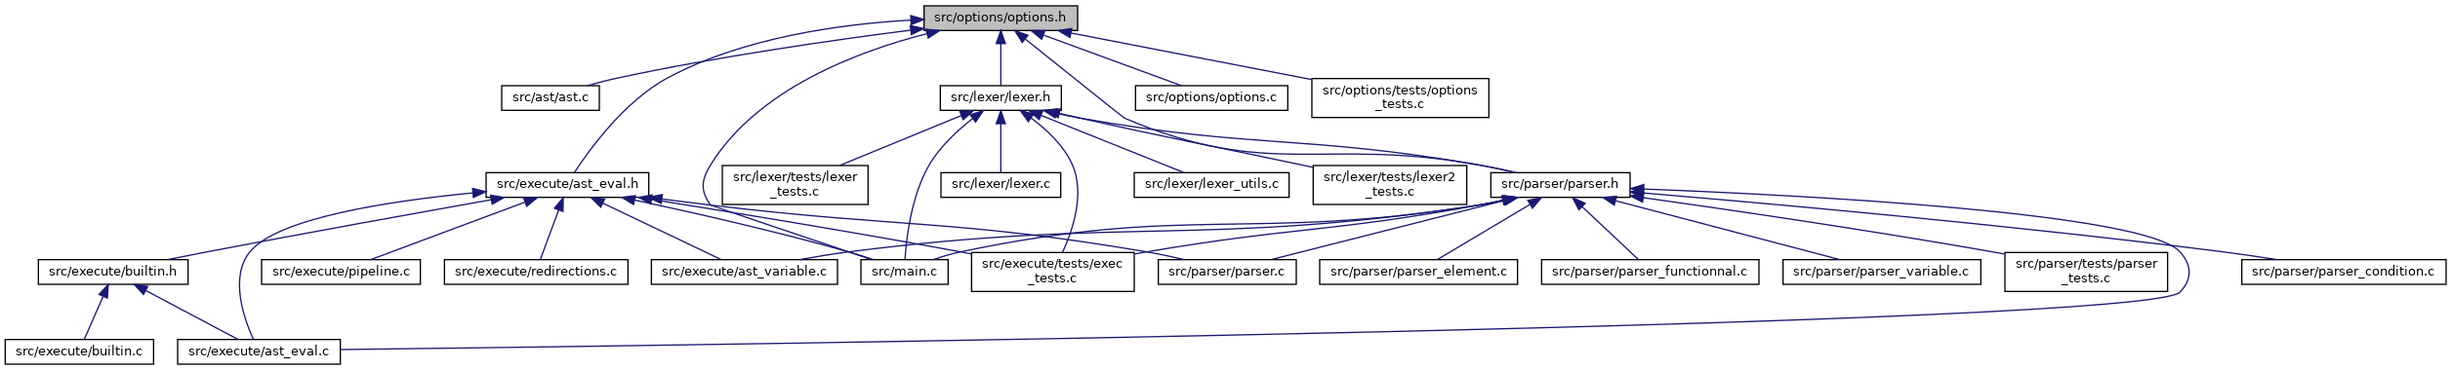
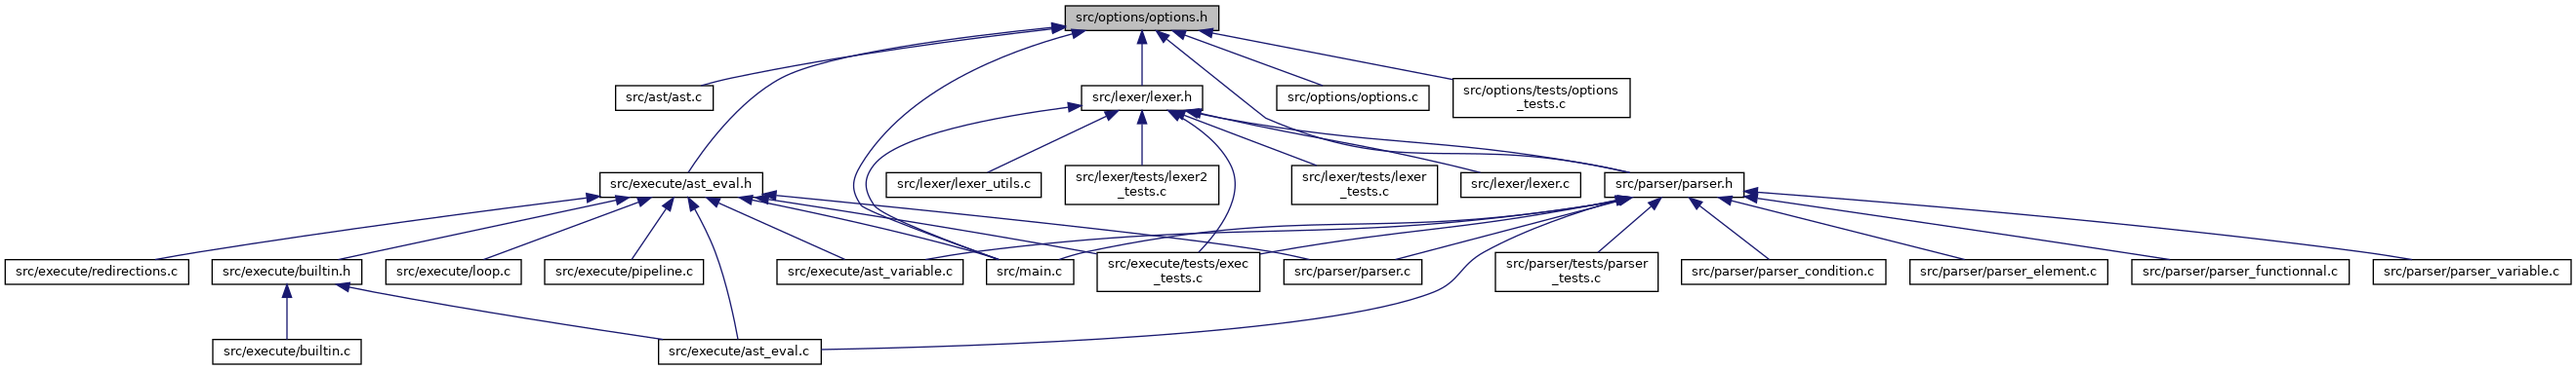
deploy: 840abefea9eaafb9baabd035a51db736eed31176

diff --git a/ast_8h.html b/ast_8h.html
@@ -96,32 +96,33 @@ This graph shows which files directly or indirectly include this file:</div>
 <div class="dyncontent">
 <div class="center"><img src="ast_8h__dep__incl.png" border="0" usemap="#asrc_2ast_2ast_8hdep" alt=""/></div>
 <map name="asrc_2ast_2ast_8hdep" id="asrc_2ast_2ast_8hdep">
-<area shape="rect" title="Represent a node of the AST." alt="" coords="656,5,757,32"/>
-<area shape="rect" href="ast_8c.html" title="Represent a node of the AST." alt="" coords="657,162,757,189"/>
-<area shape="rect" href="ast__eval_8h.html" title="Evaluate the AST." alt="" coords="466,162,633,189"/>
-<area shape="rect" href="pipeline_8c.html" title="Pipeline functions." alt="" coords="52,251,215,278"/>
-<area shape="rect" href="redirections_8c.html" title="Redirections functions." alt="" coords="239,251,427,278"/>
-<area shape="rect" href="main_8c.html" title="Main file of the project (entry point)" alt="" coords="699,341,789,367"/>
-<area shape="rect" href="options_8c.html" title="Options functions." alt="" coords="781,162,937,189"/>
-<area shape="rect" href="options_8h.html" title="Header for options functions." alt="" coords="871,80,1028,107"/>
-<area shape="rect" href="parser_8h.html" title="Header for the parser." alt="" coords="1721,251,1863,278"/>
-<area shape="rect" href="parser__tests_8c.html" title="Tests the parser functions." alt="" coords="2319,333,2486,375"/>
-<area shape="rect" href="ast__eval_8c.html" title="Evaluate the AST." alt="" coords="509,341,675,367"/>
-<area shape="rect" href="ast__variable_8c.html" title="Handle variables." alt="" coords="813,341,1003,367"/>
-<area shape="rect" href="builtin_8h.html" title="Header of the builtin functions." alt="" coords="451,251,605,278"/>
-<area shape="rect" href="exec__tests_8c.html" title="Tests the exec function." alt="" coords="1027,333,1194,375"/>
-<area shape="rect" href="parser_8c.html" title="Parse the input and build the AST." alt="" coords="1219,341,1360,367"/>
-<area shape="rect" href="builtin_8c.html" title="Builtin functions." alt="" coords="332,341,484,367"/>
-<area shape="rect" href="lexer_8h.html" title="Header of the lexer." alt="" coords="1034,162,1158,189"/>
-<area shape="rect" href="options__tests_8c.html" title="Tests the options functions." alt="" coords="1233,155,1415,196"/>
-<area shape="rect" href="lexer_8c.html" title="Lex the input." alt="" coords="1035,251,1157,278"/>
-<area shape="rect" href="lexer__utils_8c.html" title=" " alt="" coords="1182,251,1341,278"/>
-<area shape="rect" href="lexer2__tests_8c.html" title="Tests the lexer functions." alt="" coords="1365,244,1523,285"/>
-<area shape="rect" href="lexer__tests_8c.html" title="Tests the lexer functions." alt="" coords="1547,244,1696,285"/>
-<area shape="rect" href="parser__condition_8c.html" title="Parse the condition rule." alt="" coords="2086,341,2295,367"/>
-<area shape="rect" href="parser__element_8c.html" title="Parse the element rule." alt="" coords="1384,341,1587,367"/>
-<area shape="rect" href="parser__functionnal_8c.html" title="Parse the functionnal." alt="" coords="1611,341,1834,367"/>
-<area shape="rect" href="parser__variable_8c.html" title="Parse the variable." alt="" coords="1859,341,2061,367"/>
+<area shape="rect" title="Represent a node of the AST." alt="" coords="879,5,980,32"/>
+<area shape="rect" href="ast_8c.html" title="Represent a node of the AST." alt="" coords="627,162,727,189"/>
+<area shape="rect" href="ast__eval_8h.html" title="Evaluate the AST." alt="" coords="751,162,918,189"/>
+<area shape="rect" href="loop_8c.html" title="Loop functions." alt="" coords="5,251,144,278"/>
+<area shape="rect" href="pipeline_8c.html" title="Pipeline functions." alt="" coords="168,251,331,278"/>
+<area shape="rect" href="redirections_8c.html" title="Redirections functions." alt="" coords="355,251,543,278"/>
+<area shape="rect" href="main_8c.html" title="Main file of the project (entry point)" alt="" coords="2145,341,2234,367"/>
+<area shape="rect" href="options_8c.html" title="Options functions." alt="" coords="1843,162,1999,189"/>
+<area shape="rect" href="options_8h.html" title="Header for options functions." alt="" coords="941,80,1099,107"/>
+<area shape="rect" href="parser_8h.html" title="Header for the parser." alt="" coords="999,251,1142,278"/>
+<area shape="rect" href="parser__tests_8c.html" title="Tests the parser functions." alt="" coords="1954,333,2121,375"/>
+<area shape="rect" href="ast__eval_8c.html" title="Evaluate the AST." alt="" coords="255,341,422,367"/>
+<area shape="rect" href="ast__variable_8c.html" title="Handle variables." alt="" coords="613,341,803,367"/>
+<area shape="rect" href="builtin_8h.html" title="Header of the builtin functions." alt="" coords="567,251,721,278"/>
+<area shape="rect" href="exec__tests_8c.html" title="Tests the exec function." alt="" coords="827,333,994,375"/>
+<area shape="rect" href="parser_8c.html" title="Parse the input and build the AST." alt="" coords="447,341,588,367"/>
+<area shape="rect" href="builtin_8c.html" title="Builtin functions." alt="" coords="79,341,231,367"/>
+<area shape="rect" href="lexer_8h.html" title="Header of the lexer." alt="" coords="1329,162,1453,189"/>
+<area shape="rect" href="options__tests_8c.html" title="Tests the options functions." alt="" coords="993,155,1175,196"/>
+<area shape="rect" href="lexer_8c.html" title="Lex the input." alt="" coords="1217,251,1340,278"/>
+<area shape="rect" href="lexer__utils_8c.html" title=" " alt="" coords="1365,251,1523,278"/>
+<area shape="rect" href="lexer2__tests_8c.html" title="Tests the lexer functions." alt="" coords="1548,244,1705,285"/>
+<area shape="rect" href="lexer__tests_8c.html" title="Tests the lexer functions." alt="" coords="1729,244,1879,285"/>
+<area shape="rect" href="parser__condition_8c.html" title="Parse the condition rule." alt="" coords="1246,341,1455,367"/>
+<area shape="rect" href="parser__element_8c.html" title="Parse the element rule." alt="" coords="1480,341,1683,367"/>
+<area shape="rect" href="parser__functionnal_8c.html" title="Parse the functionnal." alt="" coords="1707,341,1930,367"/>
+<area shape="rect" href="parser__variable_8c.html" title="Parse the variable." alt="" coords="1019,341,1221,367"/>
 </map>
 </div>
 </div>

diff --git a/options_8h.html b/options_8h.html
@@ -96,31 +96,32 @@ This graph shows which files directly or indirectly include this file:</div>
 <div class="dyncontent">
 <div class="center"><img src="options_8h__dep__incl.png" border="0" usemap="#asrc_2options_2options_8hdep" alt=""/></div>
 <map name="asrc_2options_2options_8hdep" id="asrc_2options_2options_8hdep">
-<area shape="rect" title="Header for options functions." alt="" coords="947,5,1104,32"/>
-<area shape="rect" href="ast_8c.html" title="Represent a node of the AST." alt="" coords="514,87,614,114"/>
-<area shape="rect" href="ast__eval_8h.html" title="Evaluate the AST." alt="" coords="498,177,665,203"/>
-<area shape="rect" href="main_8c.html" title="Main file of the project (entry point)" alt="" coords="882,266,971,293"/>
-<area shape="rect" href="lexer_8h.html" title="Header of the lexer." alt="" coords="963,87,1087,114"/>
-<area shape="rect" href="parser_8h.html" title="Header for the parser." alt="" coords="1527,177,1670,203"/>
-<area shape="rect" href="options_8c.html" title="Options functions." alt="" coords="1163,87,1319,114"/>
-<area shape="rect" href="options__tests_8c.html" title="Tests the options functions." alt="" coords="1344,80,1525,121"/>
-<area shape="rect" href="ast__eval_8c.html" title="Evaluate the AST." alt="" coords="182,348,349,375"/>
-<area shape="rect" href="ast__variable_8c.html" title="Handle variables." alt="" coords="667,266,858,293"/>
-<area shape="rect" href="builtin_8h.html" title="Header of the builtin functions." alt="" coords="39,266,193,293"/>
-<area shape="rect" href="pipeline_8c.html" title="Pipeline functions." alt="" coords="268,266,431,293"/>
-<area shape="rect" href="redirections_8c.html" title="Redirections functions." alt="" coords="455,266,643,293"/>
-<area shape="rect" href="exec__tests_8c.html" title="Tests the exec function." alt="" coords="995,259,1162,300"/>
-<area shape="rect" href="parser_8c.html" title="Parse the input and build the AST." alt="" coords="1187,266,1328,293"/>
-<area shape="rect" href="builtin_8c.html" title="Builtin functions." alt="" coords="5,348,157,375"/>
-<area shape="rect" href="lexer_8c.html" title="Lex the input." alt="" coords="964,177,1087,203"/>
-<area shape="rect" href="lexer__utils_8c.html" title=" " alt="" coords="1162,177,1321,203"/>
-<area shape="rect" href="lexer2__tests_8c.html" title="Tests the lexer functions." alt="" coords="1345,169,1503,211"/>
-<area shape="rect" href="lexer__tests_8c.html" title="Tests the lexer functions." alt="" coords="740,169,889,211"/>
-<area shape="rect" href="parser__condition_8c.html" title="Parse the condition rule." alt="" coords="2297,266,2506,293"/>
-<area shape="rect" href="parser__element_8c.html" title="Parse the element rule." alt="" coords="1352,266,1555,293"/>
-<area shape="rect" href="parser__functionnal_8c.html" title="Parse the functionnal." alt="" coords="1579,266,1802,293"/>
-<area shape="rect" href="parser__variable_8c.html" title="Parse the variable." alt="" coords="1827,266,2029,293"/>
-<area shape="rect" href="parser__tests_8c.html" title="Tests the parser functions." alt="" coords="2054,259,2221,300"/>
+<area shape="rect" title="Header for options functions." alt="" coords="1091,5,1249,32"/>
+<area shape="rect" href="ast_8c.html" title="Represent a node of the AST." alt="" coords="631,87,731,114"/>
+<area shape="rect" href="ast__eval_8h.html" title="Evaluate the AST." alt="" coords="615,177,781,203"/>
+<area shape="rect" href="main_8c.html" title="Main file of the project (entry point)" alt="" coords="1011,266,1100,293"/>
+<area shape="rect" href="lexer_8h.html" title="Header of the lexer." alt="" coords="1108,87,1232,114"/>
+<area shape="rect" href="parser_8h.html" title="Header for the parser." alt="" coords="1644,177,1787,203"/>
+<area shape="rect" href="options_8c.html" title="Options functions." alt="" coords="1308,87,1464,114"/>
+<area shape="rect" href="options__tests_8c.html" title="Tests the options functions." alt="" coords="1489,80,1670,121"/>
+<area shape="rect" href="ast__eval_8c.html" title="Evaluate the AST." alt="" coords="675,348,841,375"/>
+<area shape="rect" href="ast__variable_8c.html" title="Handle variables." alt="" coords="796,266,987,293"/>
+<area shape="rect" href="builtin_8h.html" title="Header of the builtin functions." alt="" coords="217,266,371,293"/>
+<area shape="rect" href="loop_8c.html" title="Loop functions." alt="" coords="395,266,534,293"/>
+<area shape="rect" href="pipeline_8c.html" title="Pipeline functions." alt="" coords="558,266,721,293"/>
+<area shape="rect" href="redirections_8c.html" title="Redirections functions." alt="" coords="5,266,193,293"/>
+<area shape="rect" href="exec__tests_8c.html" title="Tests the exec function." alt="" coords="1124,259,1291,300"/>
+<area shape="rect" href="parser_8c.html" title="Parse the input and build the AST." alt="" coords="1315,266,1457,293"/>
+<area shape="rect" href="builtin_8c.html" title="Builtin functions." alt="" coords="218,348,370,375"/>
+<area shape="rect" href="lexer_8c.html" title="Lex the input." alt="" coords="1497,177,1619,203"/>
+<area shape="rect" href="lexer__utils_8c.html" title=" " alt="" coords="908,177,1067,203"/>
+<area shape="rect" href="lexer2__tests_8c.html" title="Tests the lexer functions." alt="" coords="1091,169,1249,211"/>
+<area shape="rect" href="lexer__tests_8c.html" title="Tests the lexer functions." alt="" coords="1323,169,1473,211"/>
+<area shape="rect" href="parser__condition_8c.html" title="Parse the condition rule." alt="" coords="1723,266,1932,293"/>
+<area shape="rect" href="parser__element_8c.html" title="Parse the element rule." alt="" coords="1957,266,2159,293"/>
+<area shape="rect" href="parser__functionnal_8c.html" title="Parse the functionnal." alt="" coords="2184,266,2407,293"/>
+<area shape="rect" href="parser__variable_8c.html" title="Parse the variable." alt="" coords="2431,266,2634,293"/>
+<area shape="rect" href="parser__tests_8c.html" title="Tests the parser functions." alt="" coords="1532,259,1699,300"/>
 </map>
 </div>
 </div>

diff --git a/loop_8c.html b/loop_8c.html
@@ -75,22 +75,28 @@ $(function() {
 
 <p>Loop functions.  
 <a href="#details">More...</a></p>
-<div class="textblock"><code>#include &quot;#include&quot;</code><br />
+<div class="textblock"><code>#include &quot;<a class="el" href="ast_8h_source.html">ast/ast.h</a>&quot;</code><br />
+<code>#include &quot;<a class="el" href="ast__eval_8h_source.html">ast_eval.h</a>&quot;</code><br />
 </div><div class="textblock"><div class="dynheader">
 Include dependency graph for loop.c:</div>
 <div class="dyncontent">
 <div class="center"><img src="loop_8c__incl.png" border="0" usemap="#asrc_2execute_2loop_8c" alt=""/></div>
 <map name="asrc_2execute_2loop_8c" id="asrc_2execute_2loop_8c">
 <area shape="rect" title="Loop functions." alt="" coords="5,5,144,32"/>
-<area shape="rect" title=" " alt="" coords="35,80,115,107"/>
+<area shape="rect" href="ast_8h.html" title="Represent a node of the AST." alt="" coords="50,229,129,256"/>
+<area shape="rect" href="ast__eval_8h.html" title="Evaluate the AST." alt="" coords="107,80,197,107"/>
+<area shape="rect" title=" " alt="" coords="232,304,315,331"/>
+<area shape="rect" title=" " alt="" coords="141,304,208,331"/>
+<area shape="rect" title=" " alt="" coords="46,304,117,331"/>
+<area shape="rect" href="options_8h.html" title="Header for options functions." alt="" coords="122,155,257,181"/>
 </map>
 </div>
 </div><table class="memberdecls">
 <tr class="heading"><td colspan="2"><h2 class="groupheader"><a name="func-members"></a>
 Functions</h2></td></tr>
-<tr class="memitem:a2120ffba7df3093483141c543038fb11"><td class="memItemLeft" align="right" valign="top">ast ast h ast_eval h int&#160;</td><td class="memItemRight" valign="bottom"><a class="el" href="loop_8c.html#a2120ffba7df3093483141c543038fb11">while_loop</a> (struct <a class="el" href="structast__node.html">ast_node</a> *node, bool logger_enabled)</td></tr>
-<tr class="memdesc:a2120ffba7df3093483141c543038fb11"><td class="mdescLeft">&#160;</td><td class="mdescRight">Evaluate the while loop.  <a href="loop_8c.html#a2120ffba7df3093483141c543038fb11">More...</a><br /></td></tr>
-<tr class="separator:a2120ffba7df3093483141c543038fb11"><td class="memSeparator" colspan="2">&#160;</td></tr>
+<tr class="memitem:acece98bbeb847388b7d092e142b67697"><td class="memItemLeft" align="right" valign="top">int&#160;</td><td class="memItemRight" valign="bottom"><a class="el" href="loop_8c.html#acece98bbeb847388b7d092e142b67697">while_loop</a> (struct <a class="el" href="structast__node.html">ast_node</a> *node, bool logger_enabled)</td></tr>
+<tr class="memdesc:acece98bbeb847388b7d092e142b67697"><td class="mdescLeft">&#160;</td><td class="mdescRight">Evaluate the while loop.  <a href="loop_8c.html#acece98bbeb847388b7d092e142b67697">More...</a><br /></td></tr>
+<tr class="separator:acece98bbeb847388b7d092e142b67697"><td class="memSeparator" colspan="2">&#160;</td></tr>
 <tr class="memitem:aaab14f1cc7f0a883f7fdfec0504dcb5e"><td class="memItemLeft" align="right" valign="top">int&#160;</td><td class="memItemRight" valign="bottom"><a class="el" href="loop_8c.html#aaab14f1cc7f0a883f7fdfec0504dcb5e">until_loop</a> (struct <a class="el" href="structast__node.html">ast_node</a> *node, bool logger_enabled)</td></tr>
 <tr class="memdesc:aaab14f1cc7f0a883f7fdfec0504dcb5e"><td class="mdescLeft">&#160;</td><td class="mdescRight">Evaluate the until loop.  <a href="loop_8c.html#aaab14f1cc7f0a883f7fdfec0504dcb5e">More...</a><br /></td></tr>
 <tr class="separator:aaab14f1cc7f0a883f7fdfec0504dcb5e"><td class="memSeparator" colspan="2">&#160;</td></tr>
@@ -180,14 +186,14 @@ Functions</h2></td></tr>
 
 </div>
 </div>
-<a id="a2120ffba7df3093483141c543038fb11"></a>
-<h2 class="memtitle"><span class="permalink"><a href="#a2120ffba7df3093483141c543038fb11">&#9670;&nbsp;</a></span>while_loop()</h2>
+<a id="acece98bbeb847388b7d092e142b67697"></a>
+<h2 class="memtitle"><span class="permalink"><a href="#acece98bbeb847388b7d092e142b67697">&#9670;&nbsp;</a></span>while_loop()</h2>
 
 <div class="memitem">
 <div class="memproto">
       <table class="memname">
         <tr>
-          <td class="memname">ast ast h ast_eval h int while_loop </td>
+          <td class="memname">int while_loop </td>
           <td>(</td>
           <td class="paramtype">struct <a class="el" href="structast__node.html">ast_node</a> *&#160;</td>
           <td class="paramname"><em>node</em>, </td>

diff --git a/ast__eval_8h.html b/ast__eval_8h.html
@@ -96,15 +96,16 @@ This graph shows which files directly or indirectly include this file:</div>
 <div class="dyncontent">
 <div class="center"><img src="ast__eval_8h__dep__incl.png" border="0" usemap="#asrc_2execute_2ast__eval_8hdep" alt=""/></div>
 <map name="asrc_2execute_2ast__eval_8hdep" id="asrc_2execute_2ast__eval_8hdep">
-<area shape="rect" title="Evaluate the AST." alt="" coords="544,5,711,32"/>
+<area shape="rect" title="Evaluate the AST." alt="" coords="607,5,773,32"/>
 <area shape="rect" href="ast__eval_8c.html" title="Evaluate the AST." alt="" coords="5,169,172,196"/>
 <area shape="rect" href="ast__variable_8c.html" title="Handle variables." alt="" coords="53,87,244,114"/>
 <area shape="rect" href="builtin_8h.html" title="Header of the builtin functions." alt="" coords="268,87,421,114"/>
-<area shape="rect" href="pipeline_8c.html" title="Pipeline functions." alt="" coords="446,87,609,114"/>
-<area shape="rect" href="redirections_8c.html" title="Redirections functions." alt="" coords="633,87,821,114"/>
-<area shape="rect" href="exec__tests_8c.html" title="Tests the exec function." alt="" coords="845,80,1012,121"/>
-<area shape="rect" href="main_8c.html" title="Main file of the project (entry point)" alt="" coords="1036,87,1125,114"/>
-<area shape="rect" href="parser_8c.html" title="Parse the input and build the AST." alt="" coords="1150,87,1291,114"/>
+<area shape="rect" href="loop_8c.html" title="Loop functions." alt="" coords="446,87,585,114"/>
+<area shape="rect" href="pipeline_8c.html" title="Pipeline functions." alt="" coords="609,87,771,114"/>
+<area shape="rect" href="redirections_8c.html" title="Redirections functions." alt="" coords="796,87,984,114"/>
+<area shape="rect" href="exec__tests_8c.html" title="Tests the exec function." alt="" coords="1008,80,1175,121"/>
+<area shape="rect" href="main_8c.html" title="Main file of the project (entry point)" alt="" coords="1199,87,1288,114"/>
+<area shape="rect" href="parser_8c.html" title="Parse the input and build the AST." alt="" coords="1313,87,1454,114"/>
 <area shape="rect" href="builtin_8c.html" title="Builtin functions." alt="" coords="269,169,421,196"/>
 </map>
 </div>

diff --git a/dir_000002_000001.html b/dir_000002_000001.html
@@ -66,7 +66,7 @@ $(function() {
 </div>
 </div><!-- top -->
 <div class="contents">
-<h3>execute &rarr; ast Relation</h3><table class="dirtab"><tr class="dirtab"><th class="dirtab">File in src/execute</th><th class="dirtab">Includes file in src/ast</th></tr><tr class="dirtab"><td class="dirtab"><a class="el" href="ast__eval_8h.html">ast_eval.h</a></td><td class="dirtab"><a class="el" href="ast_8h.html">ast.h</a></td></tr><tr class="dirtab"><td class="dirtab"><a class="el" href="pipeline_8c.html">pipeline.c</a></td><td class="dirtab"><a class="el" href="ast_8h.html">ast.h</a></td></tr><tr class="dirtab"><td class="dirtab"><a class="el" href="redirections_8c.html">redirections.c</a></td><td class="dirtab"><a class="el" href="ast_8h.html">ast.h</a></td></tr></table></div><!-- contents -->
+<h3>execute &rarr; ast Relation</h3><table class="dirtab"><tr class="dirtab"><th class="dirtab">File in src/execute</th><th class="dirtab">Includes file in src/ast</th></tr><tr class="dirtab"><td class="dirtab"><a class="el" href="ast__eval_8h.html">ast_eval.h</a></td><td class="dirtab"><a class="el" href="ast_8h.html">ast.h</a></td></tr><tr class="dirtab"><td class="dirtab"><a class="el" href="loop_8c.html">loop.c</a></td><td class="dirtab"><a class="el" href="ast_8h.html">ast.h</a></td></tr><tr class="dirtab"><td class="dirtab"><a class="el" href="pipeline_8c.html">pipeline.c</a></td><td class="dirtab"><a class="el" href="ast_8h.html">ast.h</a></td></tr><tr class="dirtab"><td class="dirtab"><a class="el" href="redirections_8c.html">redirections.c</a></td><td class="dirtab"><a class="el" href="ast_8h.html">ast.h</a></td></tr></table></div><!-- contents -->
 <!-- start footer part -->
 <hr class="footer"/><address class="footer"><small>
 Generated by&#160;<a href="https://www.doxygen.org/index.html"><img class="footer" src="doxygen.svg" width="104" height="31" alt="doxygen"/></a> 1.9.1

diff --git a/dir_6cd8491d143eb218b70983dbdb3c58bc.html b/dir_6cd8491d143eb218b70983dbdb3c58bc.html
@@ -77,7 +77,7 @@ Directory dependency graph for parser:</div>
 <map name="adir__6cd8491d143eb218b70983dbdb3c58bc__dep" id="adir__6cd8491d143eb218b70983dbdb3c58bc__dep">
 <area shape="rect" href="dir_18625fd22b3425dc25366fe53b16c144.html" title="execute" alt="" coords="27,88,101,136"/>
 <area shape="rect" href="dir_203e5988f1ed315d29383d699972de6f.html" title="ast" alt="" coords="160,184,232,232"/>
-<area shape="rect" href="dir_000002_000001.html" title="3" alt="" coords="148,160,157,174"/>
+<area shape="rect" href="dir_000002_000001.html" title="4" alt="" coords="148,160,157,174"/>
 <area shape="rect" href="dir_51d37d93a99f151d07755b62737feb84.html" title="options" alt="" coords="160,280,232,328"/>
 <area shape="rect" href="dir_000002_000009.html" title="1" alt="" coords="140,276,149,291"/>
 <area shape="rect" href="dir_e1aa690b4af0a0538ec65649b0390051.html" title="lexer" alt="" coords="64,184,136,232"/>

diff --git a/dir_68267d1309a1af8e8297ef4c3efbcdba.html b/dir_68267d1309a1af8e8297ef4c3efbcdba.html
@@ -81,7 +81,7 @@ Directory dependency graph for src:</div>
 <area shape="rect" href="dir_51d37d93a99f151d07755b62737feb84.html" title="options" alt="" coords="88,315,160,363"/>
 <area shape="rect" href="dir_000001_000009.html" title="1" alt="" coords="93,288,102,302"/>
 <area shape="rect" href="dir_18625fd22b3425dc25366fe53b16c144.html" title="execute" alt="" coords="83,27,157,75"/>
-<area shape="rect" href="dir_000002_000001.html" title="3" alt="" coords="47,191,57,206"/>
+<area shape="rect" href="dir_000002_000001.html" title="4" alt="" coords="47,191,57,206"/>
 <area shape="rect" href="dir_000002_000005.html" title="1" alt="" coords="204,98,213,112"/>
 <area shape="rect" href="dir_e1aa690b4af0a0538ec65649b0390051.html" title="lexer" alt="" coords="149,219,221,267"/>
 <area shape="rect" href="dir_000002_000007.html" title="1" alt="" coords="175,191,184,206"/>

diff --git a/dir_18625fd22b3425dc25366fe53b16c144.html b/dir_18625fd22b3425dc25366fe53b16c144.html
@@ -87,7 +87,7 @@ Directory dependency graph for execute:</div>
 <area shape="rect" href="dir_000011_000002.html" title="1" alt="" coords="120,109,130,124"/>
 <area shape="rect" href="dir_c2dcf59cda31e8386e484e74954a8ff4.html" title="io_backend" alt="" coords="353,159,447,207"/>
 <area shape="rect" href="dir_000007_000009.html" title="1" alt="" coords="260,339,269,354"/>
-<area shape="rect" href="dir_000002_000001.html" title="3" alt="" coords="205,227,214,242"/>
+<area shape="rect" href="dir_000002_000001.html" title="4" alt="" coords="205,227,214,242"/>
 <area shape="rect" href="dir_000002_000009.html" title="1" alt="" coords="187,324,196,338"/>
 <area shape="rect" href="dir_000002_000011.html" title="3" alt="" coords="212,144,222,159"/>
 <area shape="rect" href="dir_1684dd632980689352d9d748c7e45fba.html" title="hash_map" alt="" coords="38,159,127,207"/>

diff --git a/search/all_15.js b/search/all_15.js
@@ -1,4 +1,4 @@
 var searchData=
 [
-  ['while_5floop_199',['while_loop',['../ast__eval_8h.html#acece98bbeb847388b7d092e142b67697',1,'while_loop(struct ast_node *node, bool logger_enabled):&#160;loop.c'],['../loop_8c.html#a2120ffba7df3093483141c543038fb11',1,'while_loop(struct ast_node *node, bool logger_enabled):&#160;loop.c']]]
+  ['while_5floop_199',['while_loop',['../ast__eval_8h.html#acece98bbeb847388b7d092e142b67697',1,'while_loop(struct ast_node *node, bool logger_enabled):&#160;loop.c'],['../loop_8c.html#acece98bbeb847388b7d092e142b67697',1,'while_loop(struct ast_node *node, bool logger_enabled):&#160;loop.c']]]
 ];

diff --git a/search/functions_e.js b/search/functions_e.js
@@ -1,4 +1,4 @@
 var searchData=
 [
-  ['while_5floop_329',['while_loop',['../ast__eval_8h.html#acece98bbeb847388b7d092e142b67697',1,'while_loop(struct ast_node *node, bool logger_enabled):&#160;loop.c'],['../loop_8c.html#a2120ffba7df3093483141c543038fb11',1,'while_loop(struct ast_node *node, bool logger_enabled):&#160;loop.c']]]
+  ['while_5floop_329',['while_loop',['../ast__eval_8h.html#acece98bbeb847388b7d092e142b67697',1,'while_loop(struct ast_node *node, bool logger_enabled):&#160;loop.c'],['../loop_8c.html#acece98bbeb847388b7d092e142b67697',1,'while_loop(struct ast_node *node, bool logger_enabled):&#160;loop.c']]]
 ];

diff --git a/globals_func_w.html b/globals_func_w.html
@@ -67,7 +67,7 @@ $(function() {
 <h3><a id="index_w"></a>- w -</h3><ul>
 <li>while_loop()
 : <a class="el" href="ast__eval_8h.html#acece98bbeb847388b7d092e142b67697">ast_eval.h</a>
-, <a class="el" href="loop_8c.html#a2120ffba7df3093483141c543038fb11">loop.c</a>
+, <a class="el" href="loop_8c.html#acece98bbeb847388b7d092e142b67697">loop.c</a>
 </li>
 </ul>
 </div><!-- contents -->

diff --git a/globals_w.html b/globals_w.html
@@ -67,7 +67,7 @@ $(function() {
 <h3><a id="index_w"></a>- w -</h3><ul>
 <li>while_loop()
 : <a class="el" href="ast__eval_8h.html#acece98bbeb847388b7d092e142b67697">ast_eval.h</a>
-, <a class="el" href="loop_8c.html#a2120ffba7df3093483141c543038fb11">loop.c</a>
+, <a class="el" href="loop_8c.html#acece98bbeb847388b7d092e142b67697">loop.c</a>
 </li>
 </ul>
 </div><!-- contents -->
